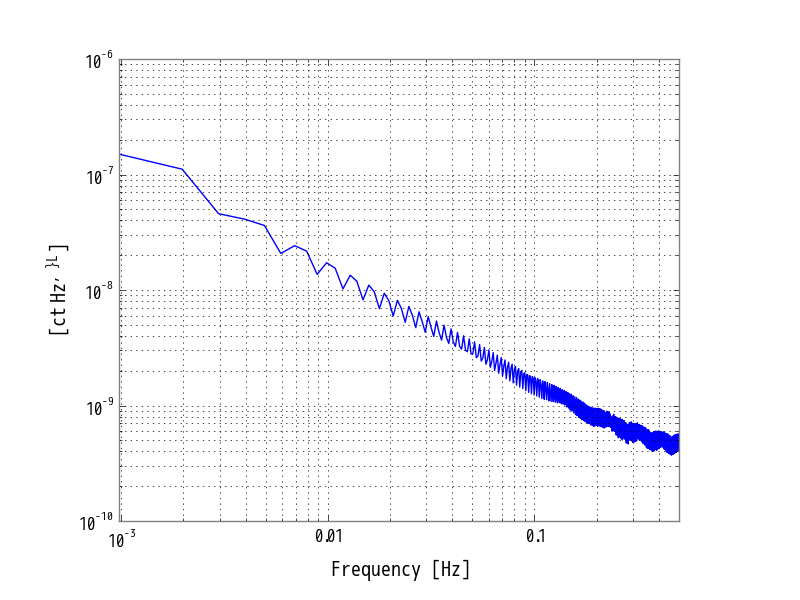
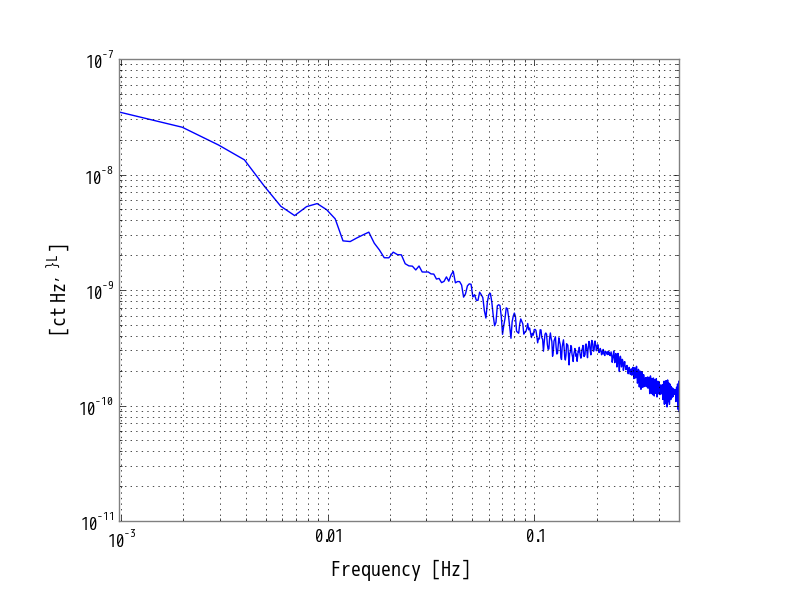
Add

diff --git a/ugm/strainmeter/main.py b/ugm/strainmeter/main.py
@@ -10,7 +10,7 @@ import Kozapy.utils.filelist as existedfilelist
 
 start = tconvert('Nov 13 2019 00:00:00 JST')
 end   = tconvert('Nov 20 2019 00:00:00 JST')
-end   = tconvert('Nov 13 2019 01:00:00 JST')
+#end   = tconvert('Nov 13 2019 01:00:00 JST')
 chname = ['K1:GIF-X_STRAIN_OUT_DQ.mean']
 fnamelist = existedfilelist(start,end,trend='second')
 print(fnamelist)
